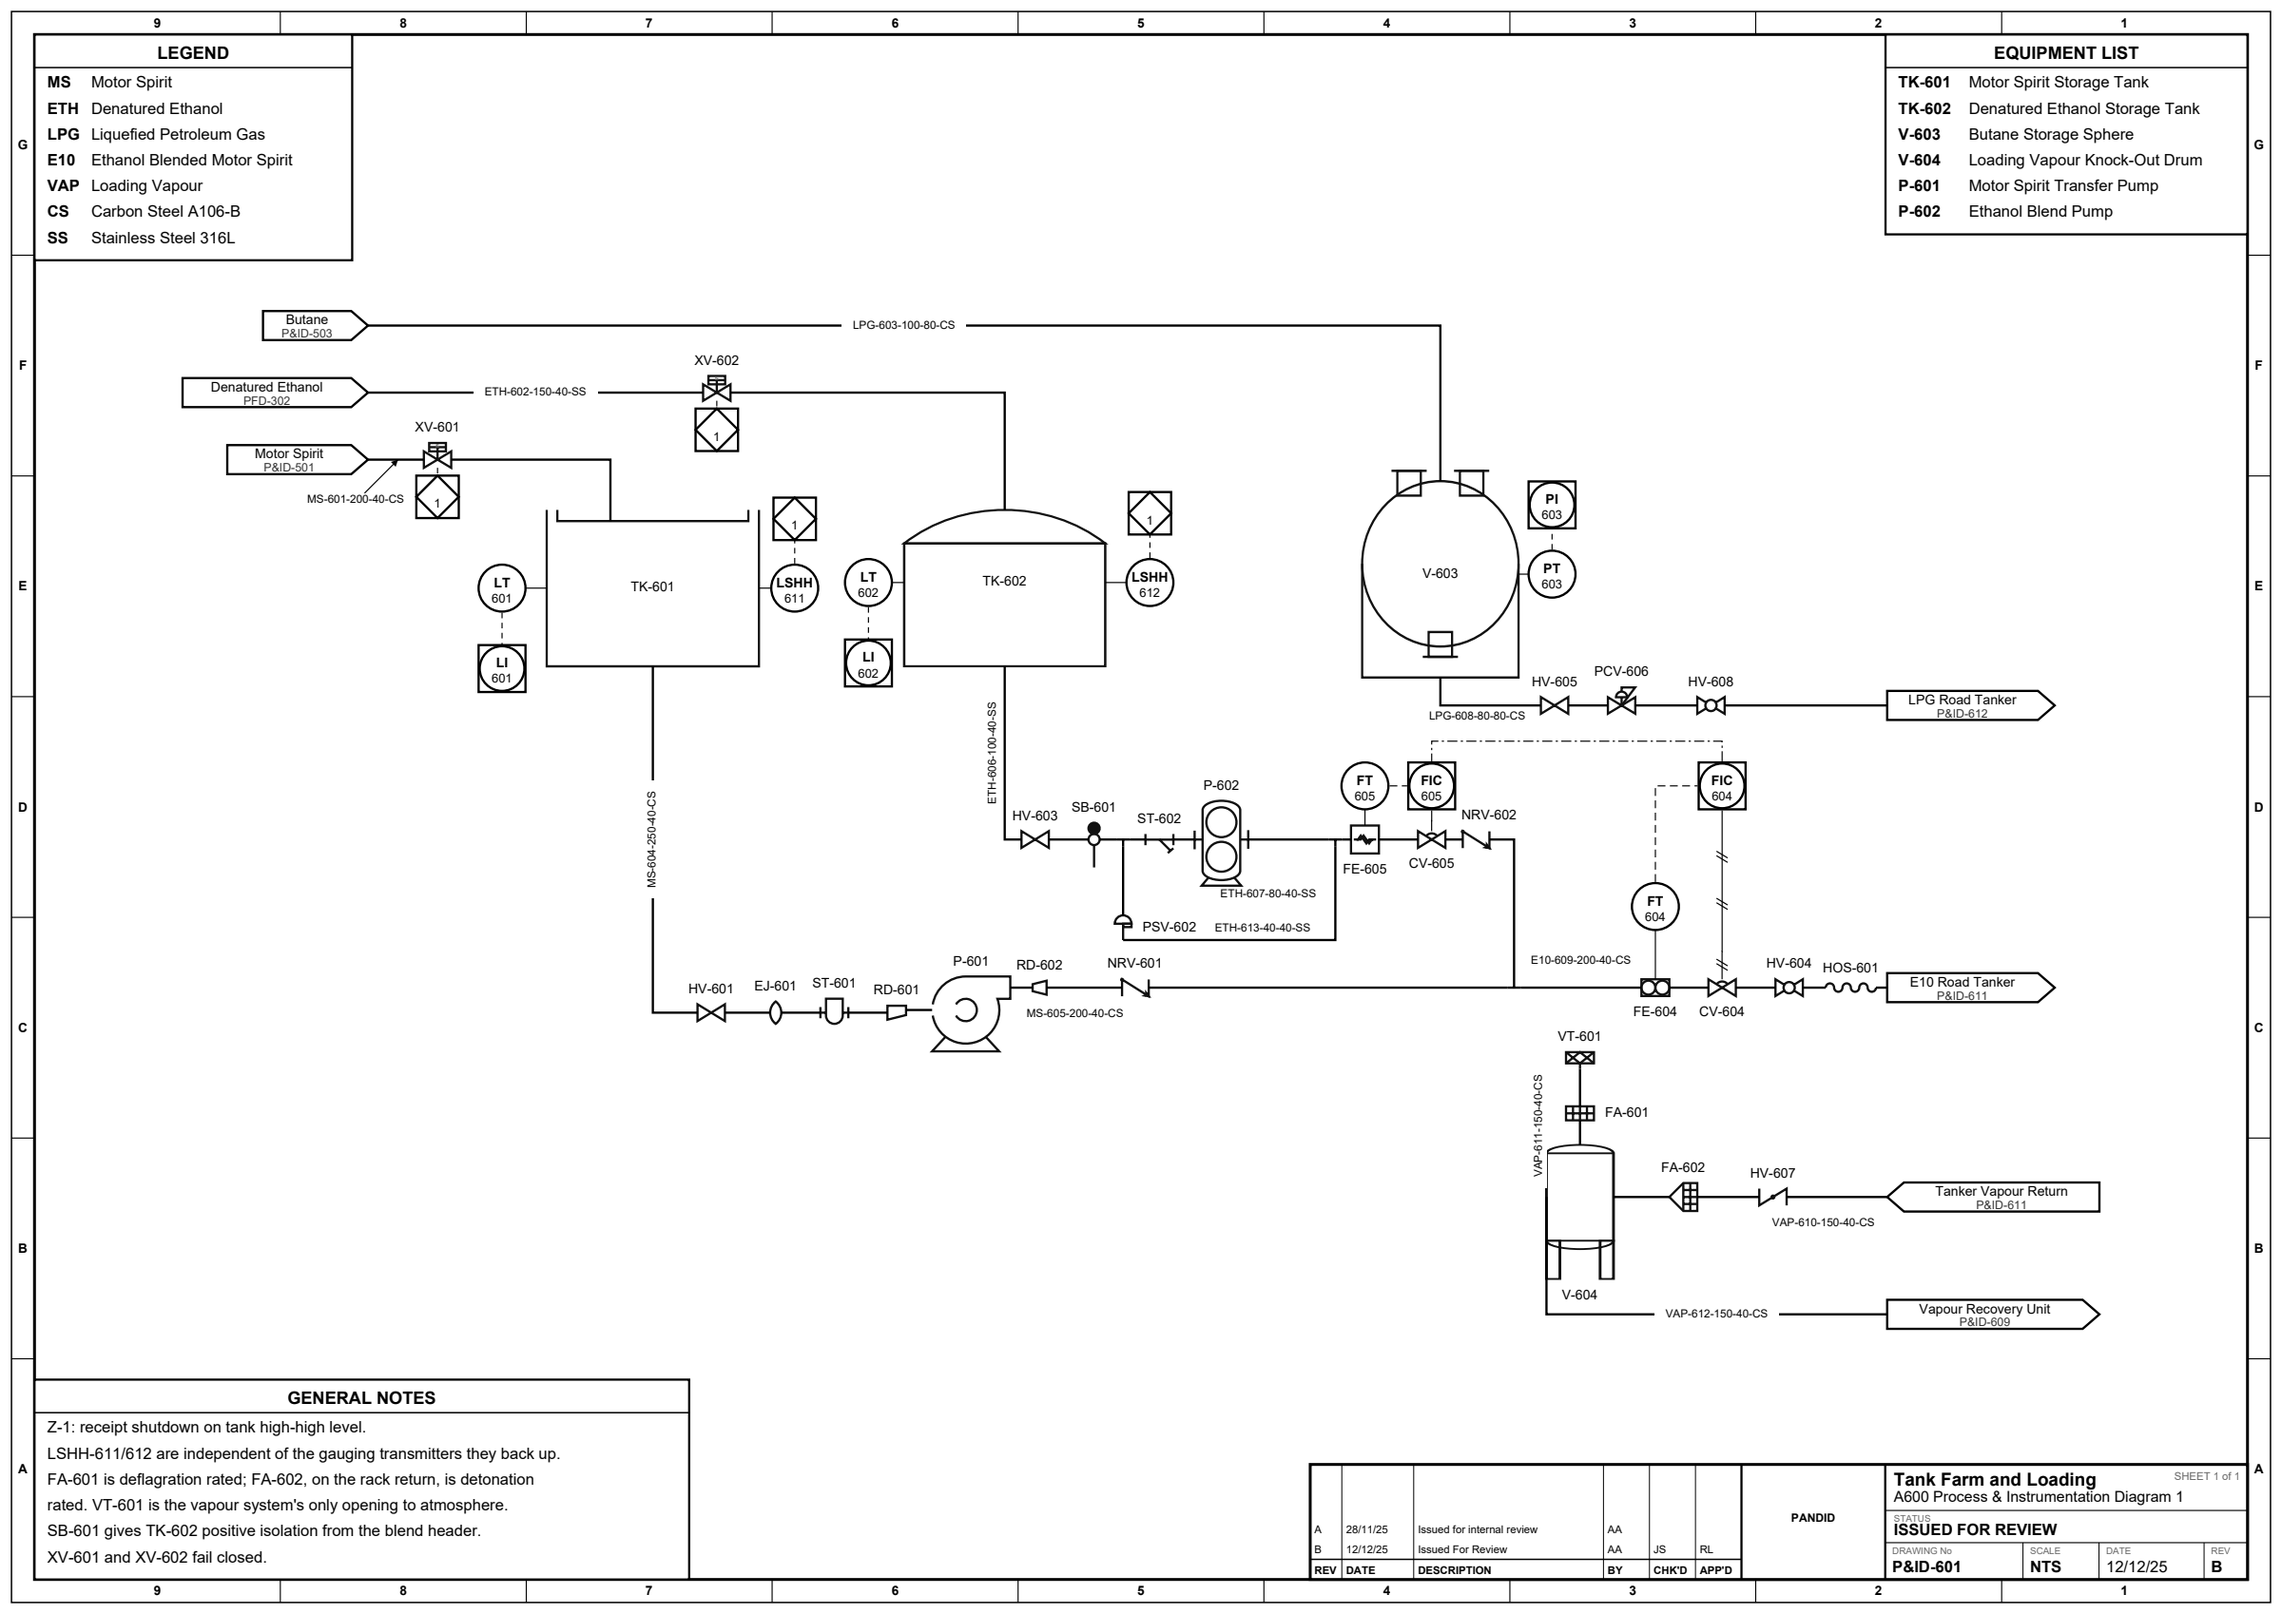
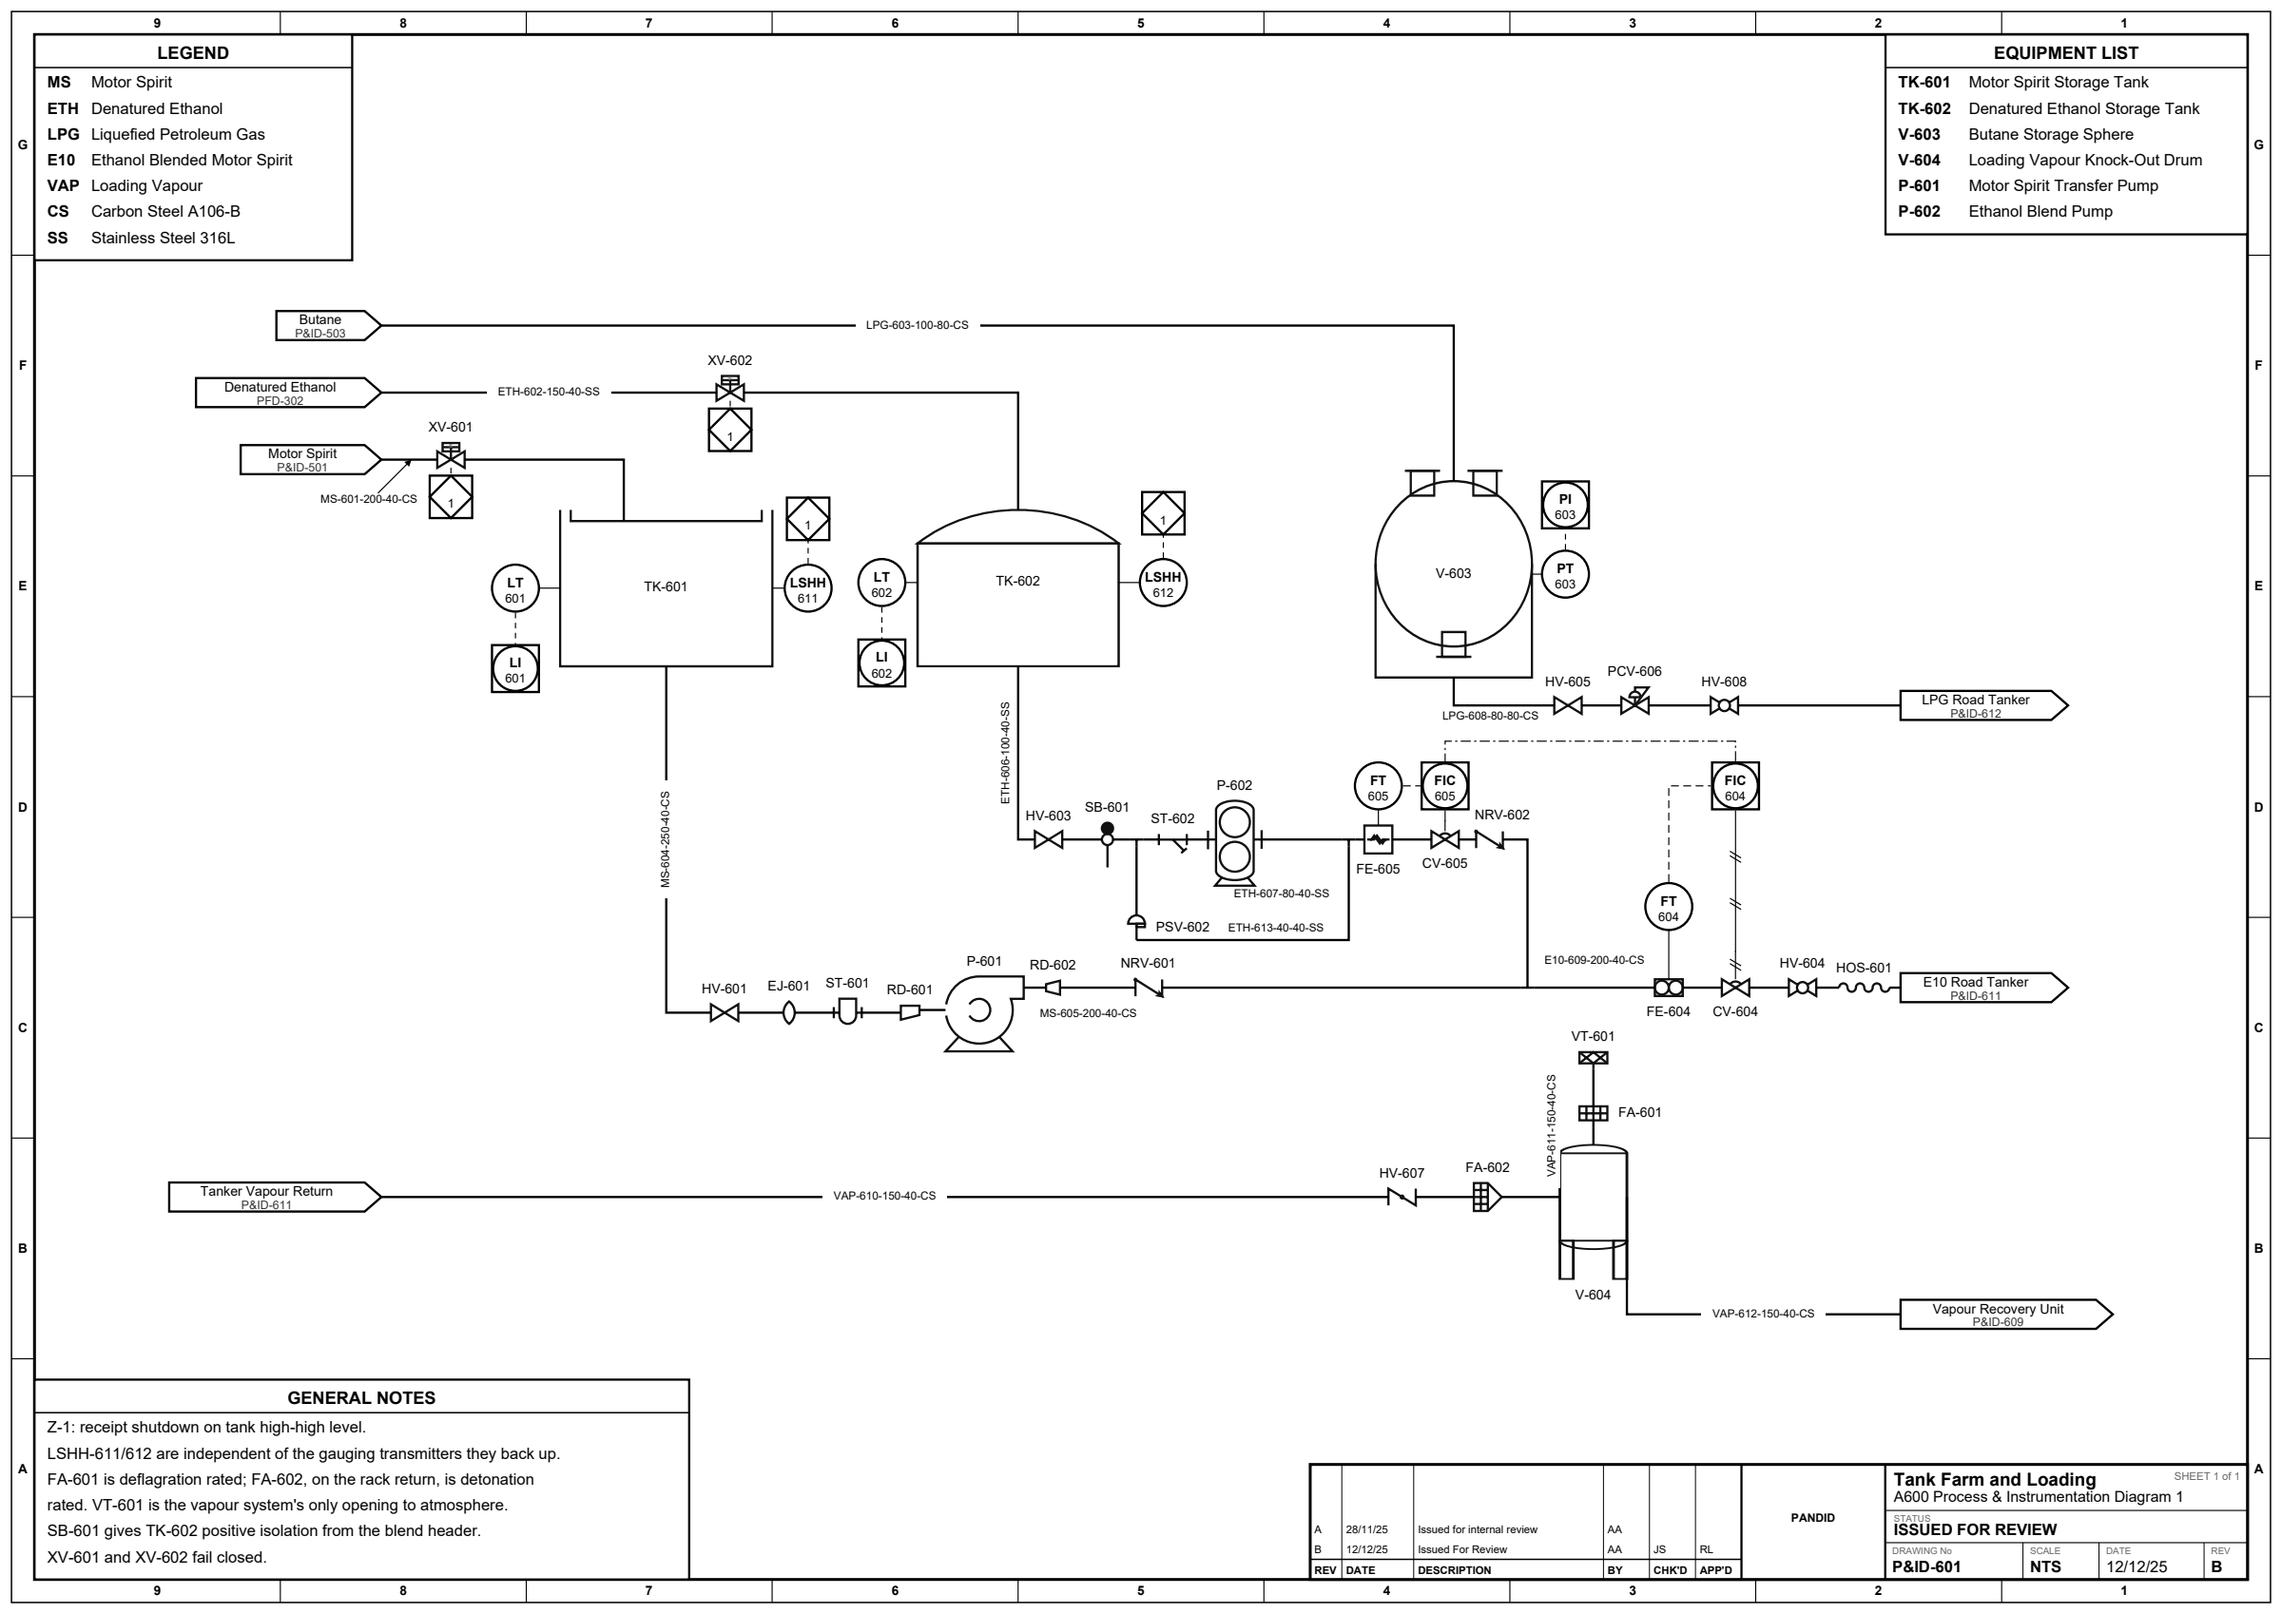
fix(examples): move 14's vapour return to the west edge with the other feeds (#232)
The Tanker Vapour Return flag sat at x=1560 on the east edge and the whole
vapour train was drawn mirrored, so the run read east to west while every
other feed on the sheet entered at x=200 on the west. The reasoning kept in
the comment above the pins -- that the vapour system belongs at the rack it
serves, and that a west-edge feed would be a full-width counterflow -- does
not survive looking at the result: an inlet on the outlet edge reads as an
outlet, and the counterflow it avoided was the direction ISO 15519-1 13.2
asks for.

Feed, HV-607, FA-602 and V-604 all lose mirrored=True. HV-607 and FA-602 are
now walked back from the drum by port_offset(), so the two gaps hold whatever
the artwork measures rather than being three numbers to keep in step. V-604
keeps the paper it had, pinned by its west-face inlet instead of its east-face
one, which leaves the vent riser and VT-601 exactly where the last review put
them and swings the drum's outlet round onto the east face the VRU flag is
already on: VAP-612 drops off it and runs 245 to the edge instead of leaving
west, doubling back and running 305.

The long run at y=830 crosses nothing -- it passes 130 below P-601 and clear
above the notes box, and both tank draw-off drops stop at their own run
elevations well above it. fs.validate() reports no route-crosses-unit.

The docstring's Layout paragraph cited 13.2 while the sheet worked around it;
it now records that all four feeds enter west and all three products leave
east.
[…]

diff --git a/examples/14_tank_farm.py b/examples/14_tank_farm.py
@@ -42,6 +42,8 @@ direction of the main flow should be from left to right or from top to bottom".
 Both are what the elevations are chosen for: the receipt to the *furthest* tank
 takes the *highest* run and the draw from the *nearest* tank the *lowest*, so
 every drop falls through empty paper and the sheet carries no process crossing.
+All four feeds enter on the west edge and all three products leave on the east,
+the vapour return included, so the main flow reads left to right everywhere.
 §13.1's vertical view is why the tanks sit above the pumps and §11.4.2 is why
 none of them is turned -- it names symbol 2061, *Open tank*, as a symbol "where
 gravity is a functionality", which "must not be turned". Boundary flags sit on
@@ -255,17 +257,20 @@ def main():
     hos601.pin(port="inlet", x=1505, y=blend_y)
     e10_out.pin(port="inlet", x=1560, y=blend_y)
 
-    # The vapour system belongs at the rack it serves, so both its off-page
-    # flags are on the east edge with the tanker flags: the return enters there,
-    # turns round in V-604 and leaves on the row below. Run west across the whole
-    # sheet it was a full-width counterflow, which ISO 15519-1 §13.2 reads
-    # against. The two rows are 120 apart because the drum's vent riser rises
-    # between them and has to top out clear of the E10 rack above.
+    # The return enters on the west edge with the other three feeds and reads
+    # left to right into V-604, which un-mirrored puts the drum's outlet on the
+    # east face the VRU flag is already on: the drop off it turns once and runs
+    # straight to the edge, and vru_y is below the drum so it clears the legs.
+    # HV-607 and FA-602 are walked back from the drum by their own widths, so
+    # the two gaps hold whatever the artwork measures.
     vap_y, vru_y = 830.0, 935.0
-    vap_in.pin(mirrored=True).pin(port="outlet", x=1560, y=vap_y)
-    hv607.pin(mirrored=True).pin(port="inlet", x=1470, y=vap_y)
-    fa602.pin(mirrored=True).pin(port="inlet", x=1390, y=vap_y)
-    v604.pin(mirrored=True).pin(port="inlet", x=1315, y=vap_y)
+    drum_x, vap_gap = 1255.0, 52.0
+    fa602_x = drum_x - vap_gap - port_offset(fa602, "outlet")[0]
+    hv607_x = fa602_x - vap_gap - port_offset(hv607, "outlet")[0]
+    vap_in.pin(port="outlet", x=200, y=vap_y)
+    hv607.pin(port="inlet", x=hv607_x, y=vap_y)
+    fa602.pin(port="inlet", x=fa602_x, y=vap_y)
+    v604.pin(port="inlet", x=drum_x, y=vap_y)
     vent_x = v604.pin_.x + port_offset(v604, "vent")[0]
     vent_y = v604.pin_.y + port_offset(v604, "vent")[1]
     vru_x = v604.pin_.x + port_offset(v604, "outlet")[0]

diff --git a/tests/test_golden.py b/tests/test_golden.py
@@ -1815,10 +1815,13 @@ def _tank_farm() -> Flowsheet:
     e10_out.pin(port="inlet", x=1560, y=blend_y)
 
     vap_y, vru_y = 830.0, 935.0
-    vap_in.pin(mirrored=True).pin(port="outlet", x=1560, y=vap_y)
-    hv607.pin(mirrored=True).pin(port="inlet", x=1470, y=vap_y)
-    fa602.pin(mirrored=True).pin(port="inlet", x=1390, y=vap_y)
-    v604.pin(mirrored=True).pin(port="inlet", x=1315, y=vap_y)
+    drum_x, vap_gap = 1255.0, 52.0
+    fa602_x = drum_x - vap_gap - port_offset(fa602, "outlet")[0]
+    hv607_x = fa602_x - vap_gap - port_offset(hv607, "outlet")[0]
+    vap_in.pin(port="outlet", x=200, y=vap_y)
+    hv607.pin(port="inlet", x=hv607_x, y=vap_y)
+    fa602.pin(port="inlet", x=fa602_x, y=vap_y)
+    v604.pin(port="inlet", x=drum_x, y=vap_y)
     vent_x = v604.pin_.x + port_offset(v604, "vent")[0]
     vent_y = v604.pin_.y + port_offset(v604, "vent")[1]
     vru_x = v604.pin_.x + port_offset(v604, "outlet")[0]
